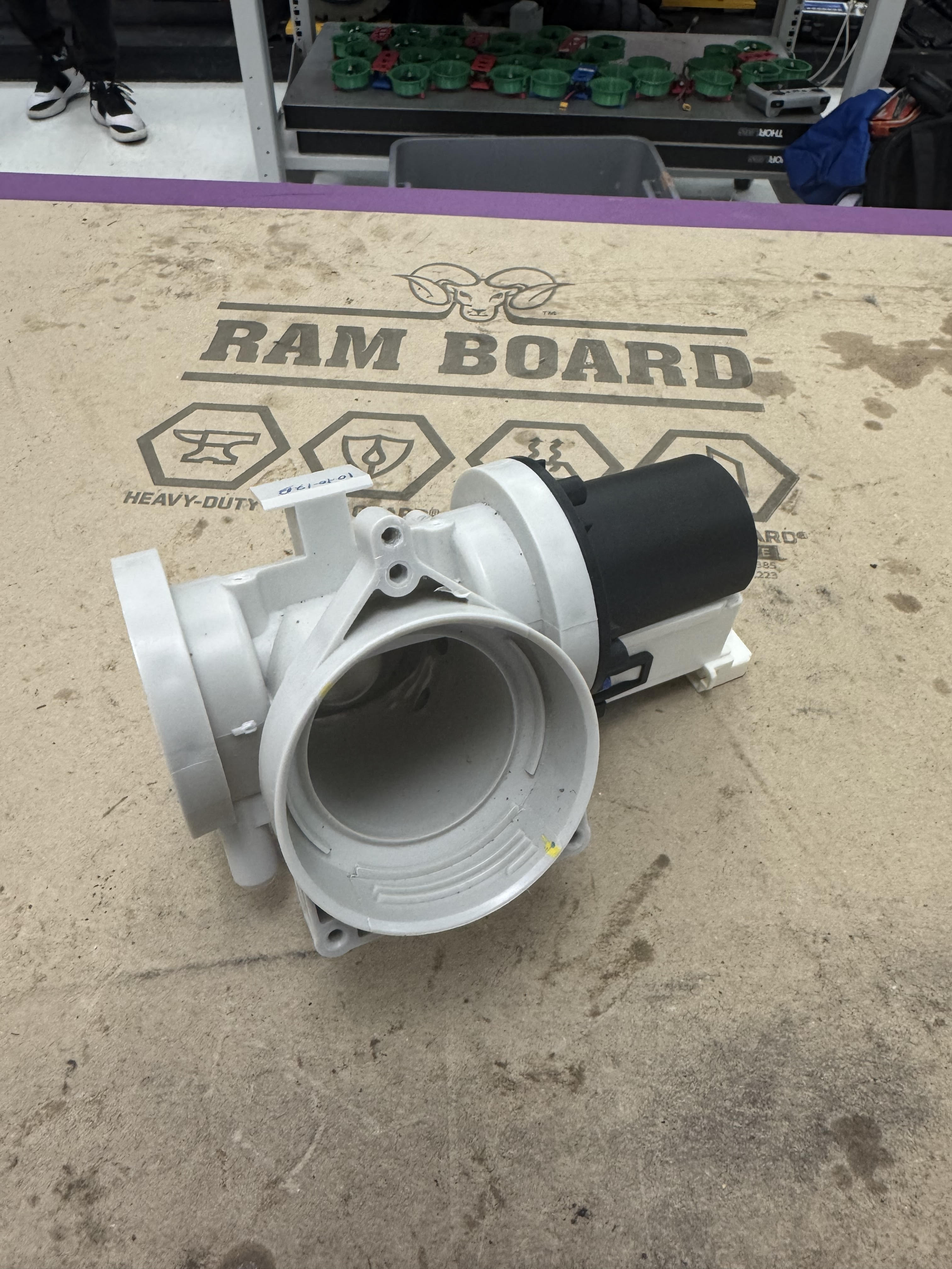
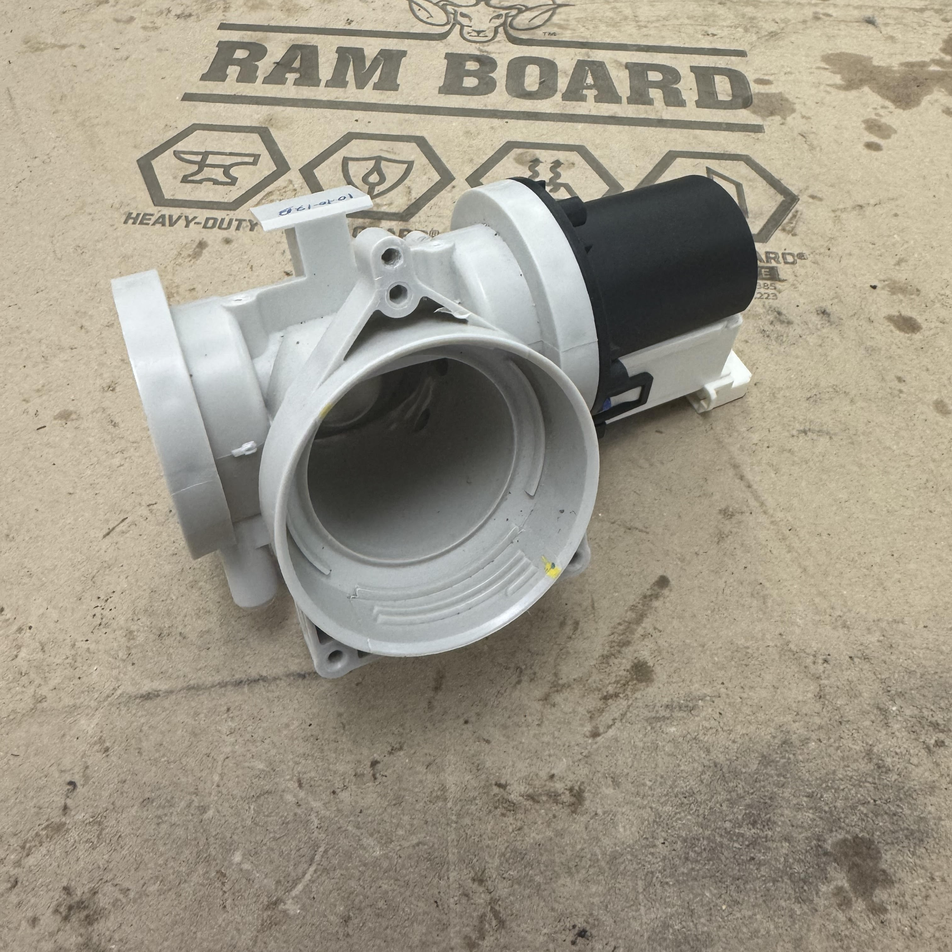
Update laundry pump photo

diff --git a/_projects/materials-torque-wrench.md b/_projects/materials-torque-wrench.md
@@ -27,15 +27,3 @@ The strains at the strain gauge location were __. This is also shown in the imag
 IMAGE 
 
 torque wrench sensitivty and strain gauge seleciton 
-
-
-This is how I solved the problem:
-
-```python
-    some code = 10;
-    plot();
-```
-
-Aenean tincidunt aliquam arcu, in euismod dui dapibus eu. In placerat, mi et ultrices consequat, quam ligula cursus mauris, in semper neque nibh at est. Maecenas hendrerit dignissim porta. Phasellus nec fringilla dolor. Etiam efficitur nisi sit amet velit pharetra feugiat. Etiam ultrices turpis at leo semper, eleifend scelerisque neque malesuada. Aliquam molestie congue rhoncus. Donec blandit neque dolor, nec tristique mi pretium ac. Mauris tincidunt ullamcorper magna, nec pellentesque mi sagittis quis.
-
-
